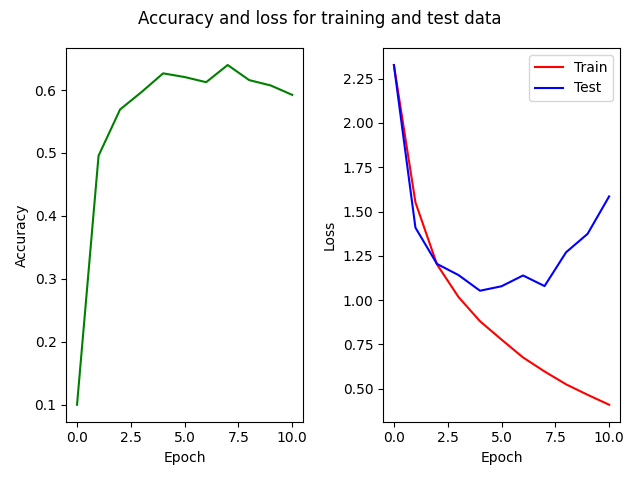
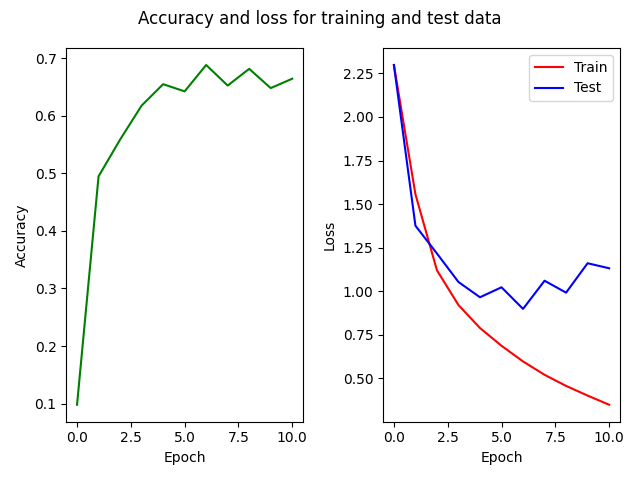
Fix

diff --git a/Homework 06/ResNet/ResNet.py b/Homework 06/ResNet/ResNet.py
@@ -9,16 +9,24 @@ class ResNet(tf.keras.Model):
         self.layer_list = [
             tf.keras.layers.Conv2D(filters=32, kernel_size=(5,5), strides=(1,1), activation="relu", padding='valid'),
             
-            ResidualBlock(n_filters=40, out_filters=64, mode="normal"),
-            ResidualBlock(n_filters=128, out_filters=150, mode="normal"),
+            # Change number of channels
+            ResidualBlock(n_filters=64, out_filters=128, mode="normal"),
 
-            ResidualBlock(n_filters=100, out_filters=150, mode="strided"),
-            ResidualBlock(n_filters=100, out_filters=150, mode="strided"),
-            ResidualBlock(n_filters=100, out_filters=150, mode="strided"),
+            # Shrinks feature maps, changes n of channels 
+            ResidualBlock(n_filters=64, out_filters=128, mode="strided"),
 
-            ResidualBlock(n_filters=200, out_filters=250, mode="normal"),
+            # Keeps feature map size and n of channels
+            ResidualBlock(n_filters=128, out_filters=128, mode="constant"),
 
-            ResidualBlock(n_filters=250, out_filters=250, mode="constant"),
+            # Change number of channels
+            ResidualBlock(n_filters=128, out_filters=256, mode="normal"),
+
+            # Shrinks feature maps, changes n of channels 
+            ResidualBlock(n_filters=128, out_filters=256, mode="strided"),
+
+            # Keeps feature map size and n of channels
+            ResidualBlock(n_filters=256, out_filters=256, mode="constant"),
+
             tf.keras.layers.GlobalAveragePooling2D(),
 
             tf.keras.layers.Dense(10, activation=tf.nn.softmax)

diff --git a/Homework 06/ResNet/ResidualBlock.py b/Homework 06/ResNet/ResidualBlock.py
@@ -8,7 +8,7 @@ class ResidualBlock(tf.keras.layers.Layer):
          ==> Conv2D ==> Conv2D ==> Conv2D ==> +
         |                                     |
         |_____________________________________|
-              this path is called shortcut
+              this path is called shortcut (aka skipped connection)
 
         ==> = BatchNormalization and Activation
         + = add output of 3th ConvLayer with input of 1st ConvLayer (before BatchNormalization and Activation are applied)
@@ -76,12 +76,6 @@ class ResidualBlock(tf.keras.layers.Layer):
             tf.keras.layers.Conv2D(filters=out_filters, kernel_size =(1,1))
         ]
 
-
-    
-    #def build(self, n_filters=64, out_filters=256):
-        
-        
-
         
     #@tf.function 
     def call(self, x, train):
@@ -95,10 +89,10 @@ class ResidualBlock(tf.keras.layers.Layer):
             self.out_filters = input.shape[-1]
             input = self.shortcut(input)
 
-        # propagte towards all layers
+        # Propagte input towards all layers
         for layer in self.layer_list:
             
-            # No BatchNormalization during training
+            # No BatchNormalization during testing
             if not train:
                 if isinstance(layer, tf.keras.layers.BatchNormalization):
                     continue

diff --git a/Homework 06/DenseNet/DenseNet.py b/Homework 06/DenseNet/DenseNet.py
@@ -9,12 +9,17 @@ class DenseNet(tf.keras.Model):
 
         self.layer_list = [
             # Initial Conv layer before the first res block
-            tf.keras.layers.Conv2D(filters=32, kernel_size=3, padding="same", activation="relu"),
+            tf.keras.layers.Conv2D(filters=30, kernel_size=3, padding="same", activation="relu"),
 
-            DenseBlock(n_filters=128, new_channels=32),
-            DenseBlock(n_filters=256, new_channels=64),
-            DenseBlock(n_filters=128, new_channels=32),
+            DenseBlock(n_filters=80, new_channels=60),
+            TransitionLayer(n_filters=50),
+            
+            DenseBlock(n_filters=100, new_channels=80),
+            TransitionLayer(n_filters=60),
 
+            DenseBlock(n_filters=120, new_channels=100),
+
+   
             tf.keras.layers.GlobalAveragePooling2D(),
 
             tf.keras.layers.Dense(10, activation=tf.nn.softmax) 
@@ -25,7 +30,7 @@ class DenseNet(tf.keras.Model):
 
         for layer in self.layer_list:
 
-            if isinstance(layer, DenseBlock):
+            if isinstance(layer, DenseBlock) or isinstance(layer, TransitionLayer):
                 x = layer(x, train)
             else:
                 x = layer(x)

diff --git a/Homework 06/Training.py b/Homework 06/Training.py
@@ -26,7 +26,7 @@ def main():
     learning_rate = 0.001
 
     # Initialize the model.
-    model = DenseNet()
+    model = ResNet()
    
     # Initialize the loss: categorical cross entropy. Check out 'tf.keras.losses'.
     cross_entropy_loss = tf.keras.losses.CategoricalCrossentropy()
